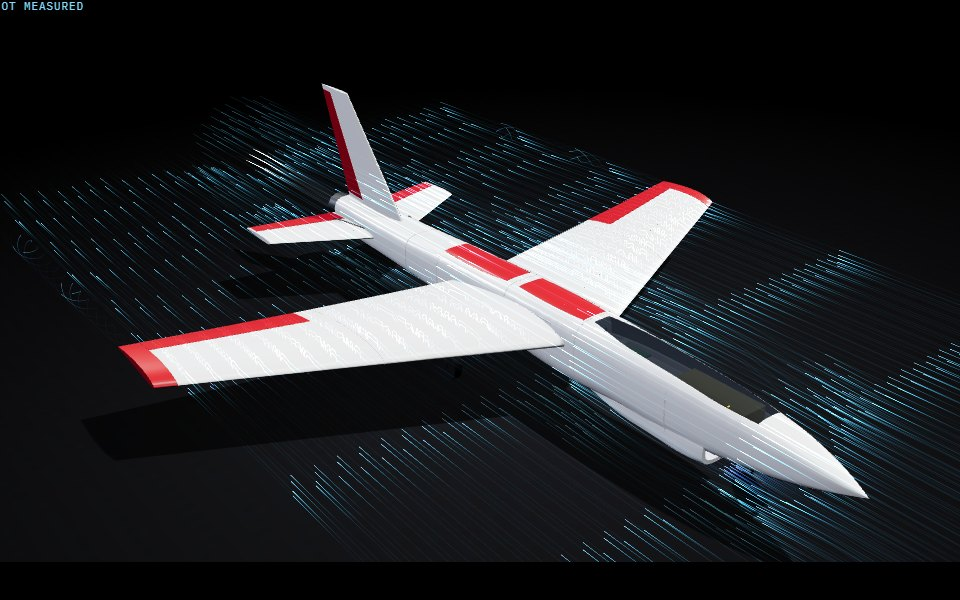
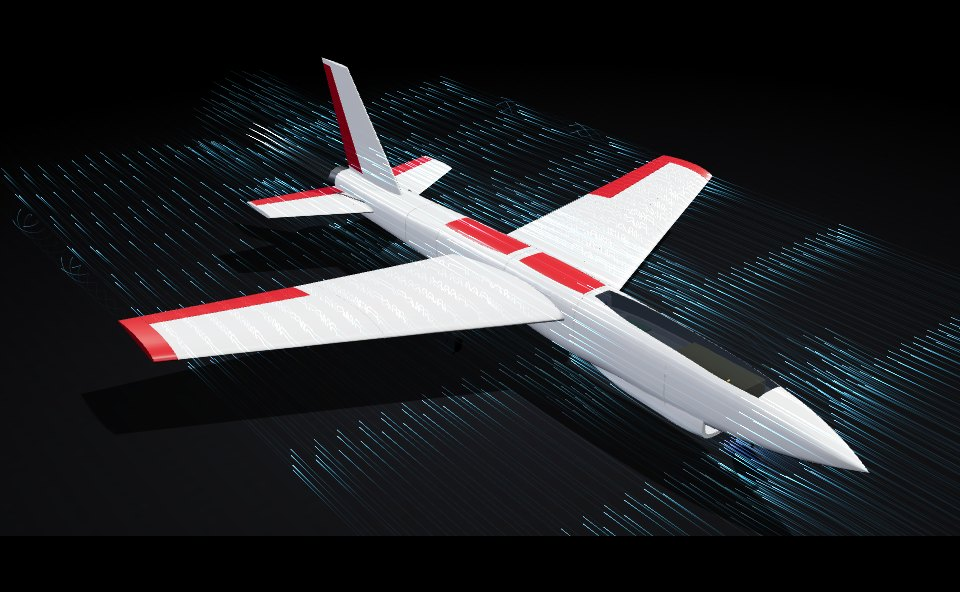
Show only model names on the build cards; drop the CFD claim from the field manual list

Changed region(s): [[0.0, 0.0912, 1.0, 0.9426], [0.0, 0.0, 0.0938, 0.0304]]

diff --git a/index.html b/index.html
@@ -255,15 +255,7 @@ footer a { color: var(--muted); }
     <article class="feature reveal">
       <img class="shot" src="img/hero.jpg" alt="SPEED-QUAD TS5 tail-sitter quad in the 3D viewer with modeled streamlines" loading="lazy">
       <div class="body">
-        <span class="tag">Design study · print-ready</span>
         <h3>SPEED-QUAD TS5</h3>
-        <p>A 5-inch, 6S tail-sitter built for straight-line speed. It takes off nose-up, pitches over 90° and flies like a missile. The whole airframe is 3D-printable.</p>
-        <ul class="stats">
-          <li><b>360 mm</b><span>Length</span></li>
-          <li><b>4 × 2207</b><span>1950 KV motors</span></li>
-          <li><b>6S 1300</b><span>mAh LiPo</span></li>
-          <li><b>18.95 N</b><span>Drag @ 300 km/h</span></li>
-        </ul>
         <div class="btns">
           <button class="btn" data-model="sq">View in 3D</button>
           <a class="btn primary" href="https://fastestquad.vercel.app/" target="_blank" rel="noopener">Full spec sheet</a>
@@ -274,15 +266,7 @@ footer a { color: var(--muted); }
     <article class="feature flip reveal">
       <img class="shot" src="img/b2.jpg" alt="B-2 Spirit 1:35 RC flying wing in the 3D viewer with modeled streamlines" loading="lazy">
       <div class="body">
-        <span class="tag">Design study · 1:35 scale RC</span>
         <h3>B-2 Spirit</h3>
-        <p>A radio-controlled B-2 flying wing with two 64 mm ducted fans buried in the centre body, top-surface intakes and split drag rudders. Drawn from the real 3-view, built to fly under 2 kg.</p>
-        <ul class="stats">
-          <li><b>1471 mm</b><span>Span</span></li>
-          <li><b>2 × 64 mm</b><span>EDF fans</span></li>
-          <li><b>≈ 1865 g</b><span>All-up weight</span></li>
-          <li><b>1.38</b><span>Thrust to weight</span></li>
-        </ul>
         <div class="btns">
           <button class="btn" data-model="b2">View in 3D</button>
           <a class="btn primary" href="https://b2-spirit.vercel.app/" target="_blank" rel="noopener">Full spec sheet</a>
@@ -293,15 +277,7 @@ footer a { color: var(--muted); }
     <article class="feature reveal">
       <img class="shot" src="img/edf.jpg" alt="EDF-X5 sport jet in the 3D viewer with modeled streamlines" loading="lazy">
       <div class="body">
-        <span class="tag">Design study · 26 printed parts</span>
         <h3>EDF-X5 Sport Jet</h3>
-        <p>A swept-wing sport jet around one 50 mm ducted fan on 6S. A chin inlet feeds an S-duct to the fan in the tail, and the whole airframe splits into 26 PLA parts for a 256 mm bed.</p>
-        <ul class="stats">
-          <li><b>950 mm</b><span>Span</span></li>
-          <li><b>1 × 50 mm</b><span>EDF on 6S</span></li>
-          <li><b>26</b><span>Printed parts</span></li>
-          <li><b>≈ 1380 g</b><span>CAD weight audit</span></li>
-        </ul>
         <div class="btns">
           <button class="btn" data-model="edf">View in 3D</button>
           <a class="btn primary" href="https://edf-x5.vercel.app/" target="_blank" rel="noopener">Full spec sheet</a>
@@ -330,7 +306,7 @@ footer a { color: var(--muted); }
         <img src="img/cfd/naca_inlet.jpg" alt="Close-up of the flush NACA inlet in the flow model" loading="lazy" width="1600" height="538">
         <figcaption>NACA inlet in the flow model</figcaption>
       </figure>
-      <p class="cfdnote"><b>18.95 N</b> drag at 300 km/h · CdA 45 cm² · ≈4.5 g/s through the inlets. Every click in the CFD software was Claude's. <a href="https://fastestquad.vercel.app/#cfd" target="_blank" rel="noopener">Full CFD results</a></p>
+      <p class="cfdnote">Every click in the CFD software was Claude's. <a href="https://fastestquad.vercel.app/#cfd" target="_blank" rel="noopener">Full CFD results</a></p>
     </div>
 
     <div class="grid">
@@ -352,7 +328,7 @@ footer a { color: var(--muted); }
         <ul class="ticks">
           <li>Connect Claude to Fusion 360, step by step</li>
           <li>The prompts that turn an idea into a printable part</li>
-          <li>How to get CAD and CFD work done just by asking</li>
+          <li>How to get CAD work done just by asking</li>
         </ul>
         <a class="btn primary" href="https://kimhyunseok.gumroad.com/l/fieldmanual" target="_blank" rel="noopener">Get the Field Manual</a>
       </div>
